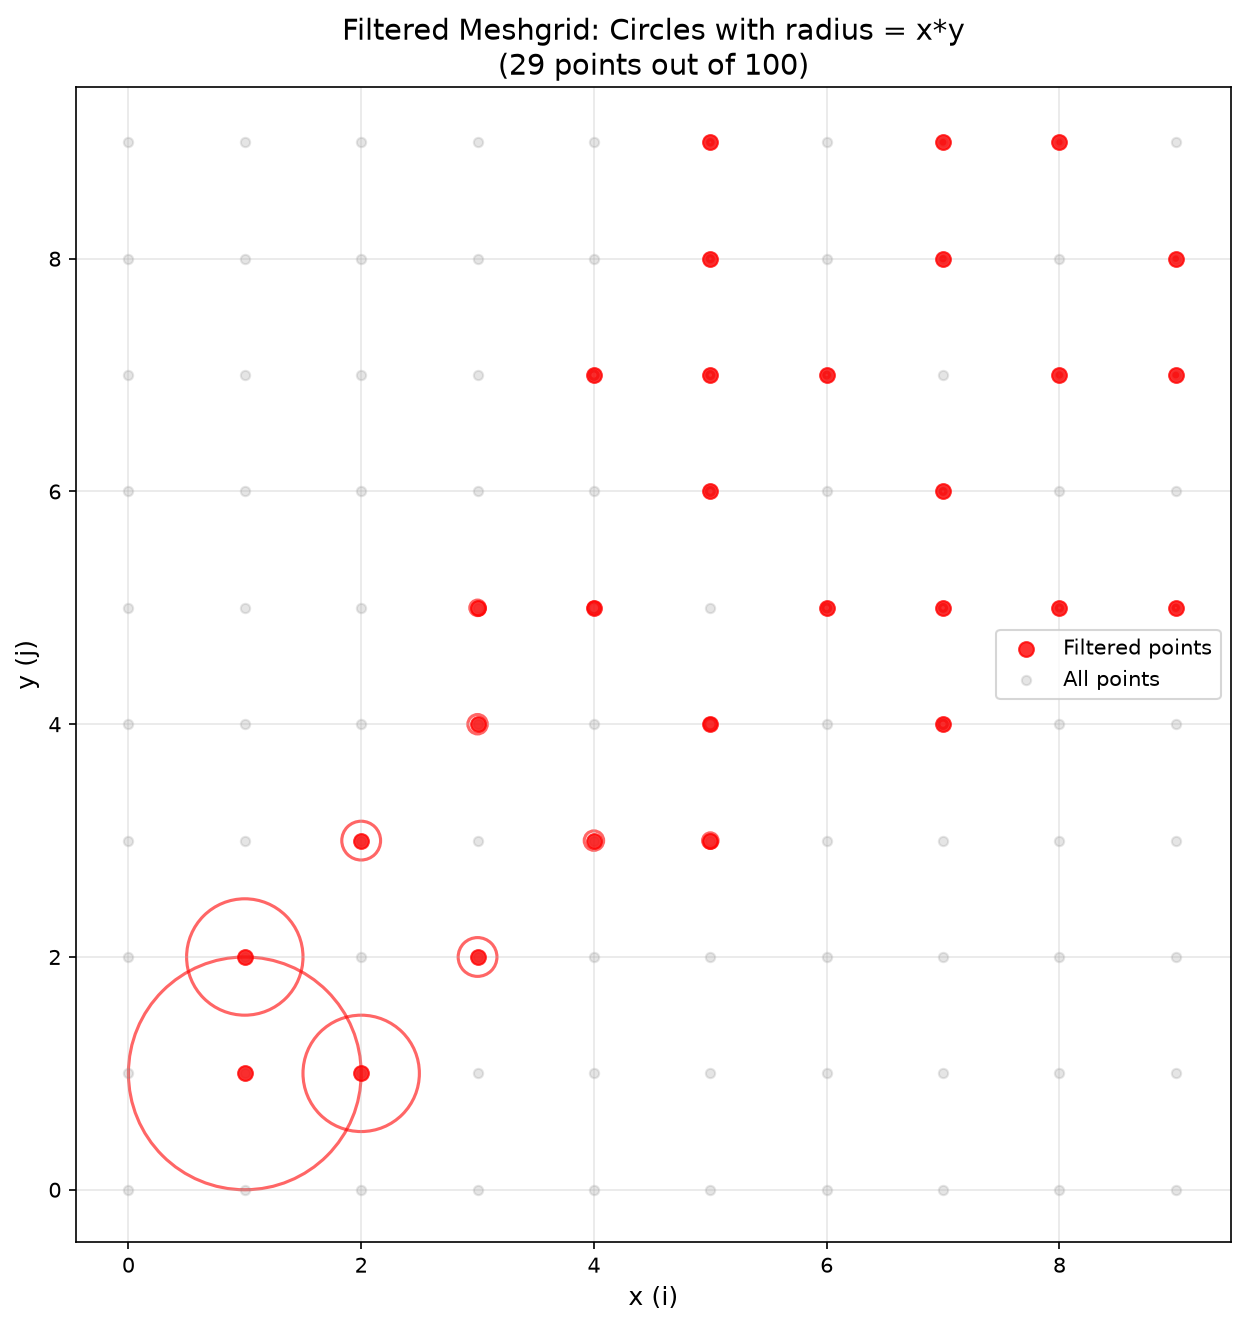
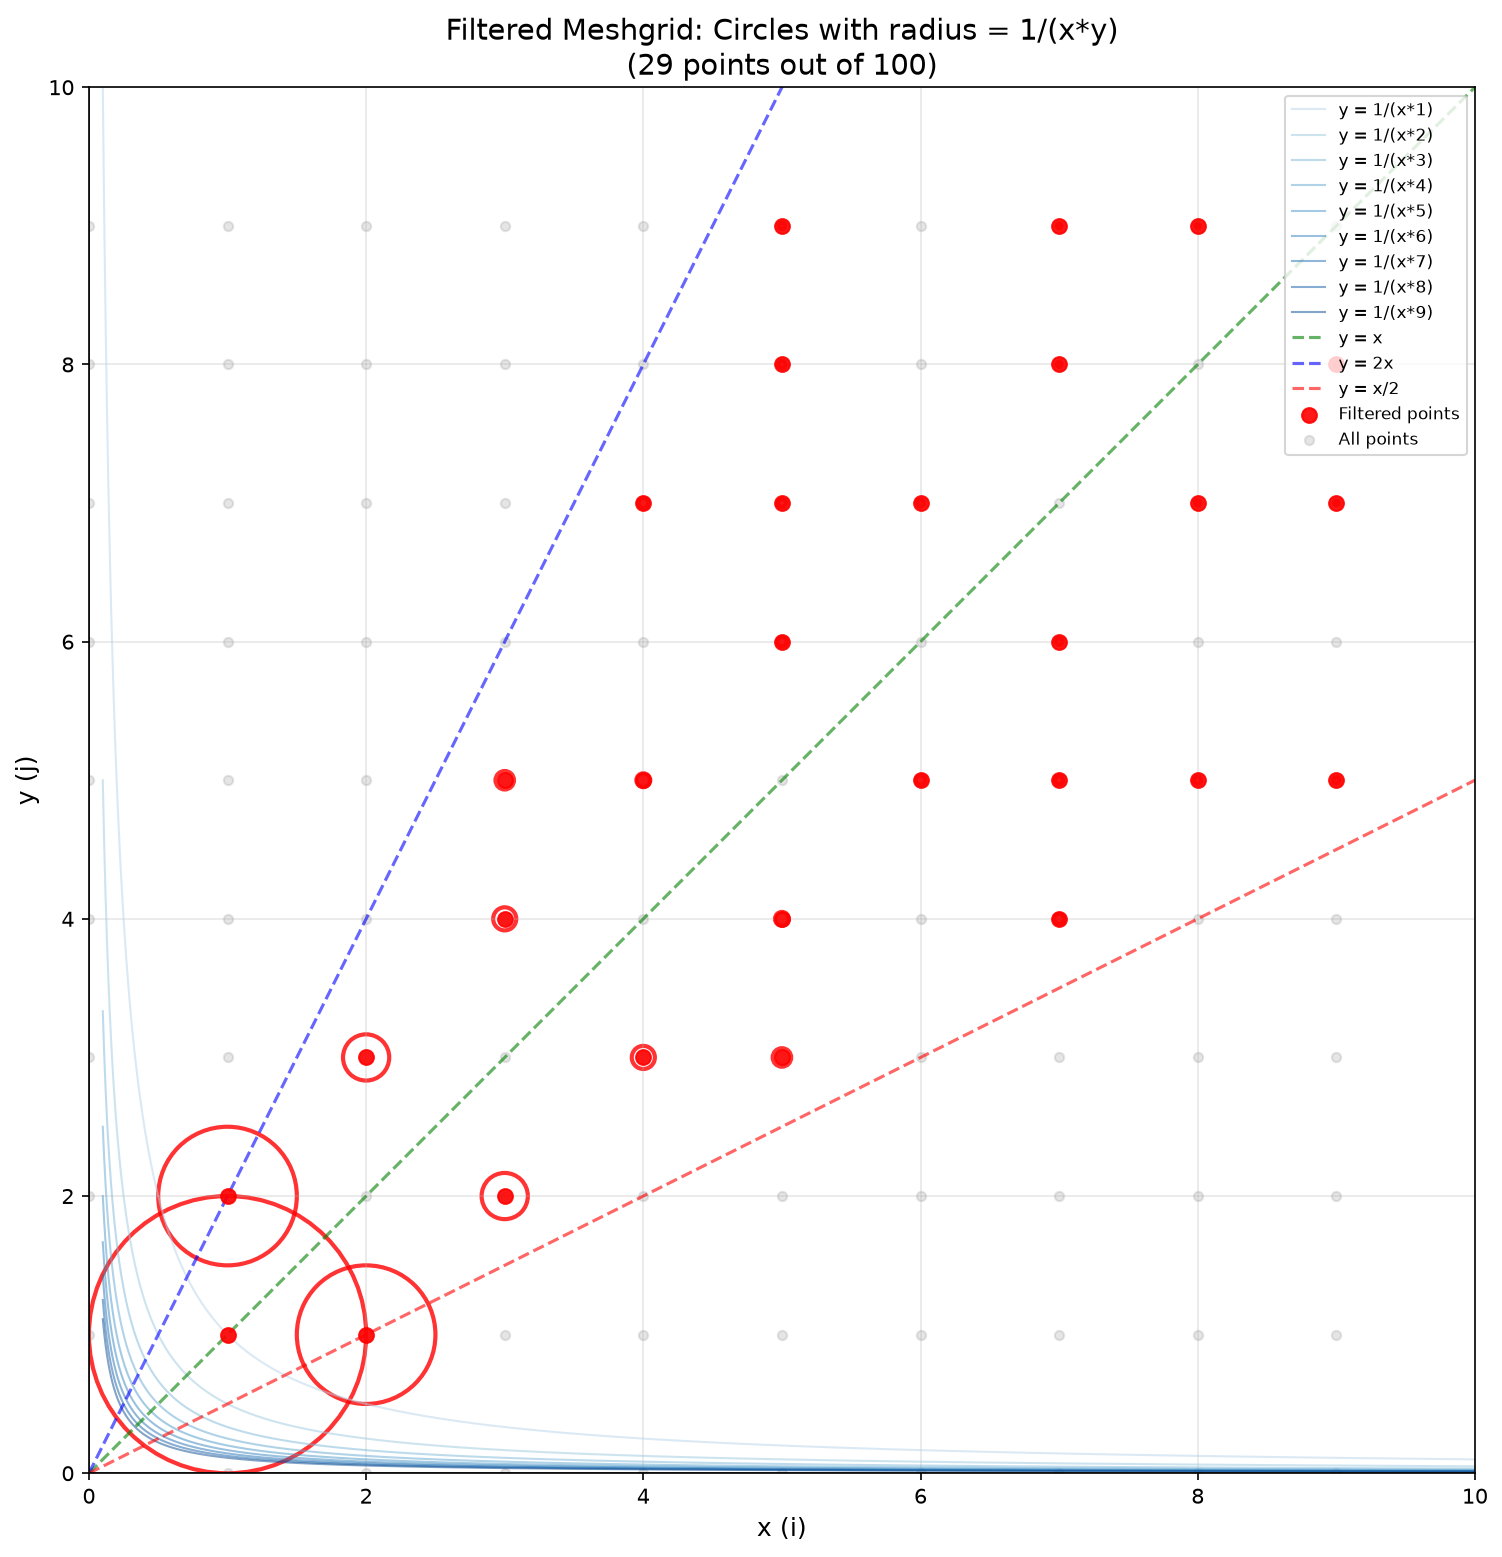
Remove meshgrid files and enhance filtered plot with curves and reference lines

diff --git a/tmo/meshgrid_filtered.py b/tmo/meshgrid_filtered.py
@@ -37,25 +37,46 @@ for i in range(N):
         filtered_x.append(x_val)
         filtered_y.append(y_val)
 
-# Plot circles at filtered points with radius = x*y
-fig, ax = plt.subplots(figsize=(10, 10))
+# Create plot
+fig, ax = plt.subplots(figsize=(12, 12))
+
+# Add curves y = 1/(x*k) for k in range(1, 10)
+x_range = np.linspace(0.1, 10, 1000)
+colors_curves = plt.cm.Blues(np.linspace(0.3, 0.9, 9))
+for k in range(1, 10):
+    y_curve = 1 / (x_range * k)
+    ax.plot(x_range, y_curve, color=colors_curves[k-1], alpha=0.5, linewidth=1, label=f'y = 1/(x*{k})')
+
+# Add axis lines (x=0 and y=0)
+ax.axhline(y=0, color='black', linewidth=0.8, alpha=0.7)
+ax.axvline(x=0, color='black', linewidth=0.8, alpha=0.7)
+
+# Add reference lines
+x_line = np.linspace(0, 10, 100)
+ax.plot(x_line, x_line, 'g--', linewidth=1.5, alpha=0.6, label='y = x')
+ax.plot(x_line, 2*x_line, 'b--', linewidth=1.5, alpha=0.6, label='y = 2x')
+ax.plot(x_line, x_line/2, 'r--', linewidth=1.5, alpha=0.6, label='y = x/2')
 
 # Draw circles for filtered points
 for x_val, y_val in zip(filtered_x, filtered_y):
     radius = 1 / (x_val * y_val)
-    circle = plt.Circle((x_val, y_val), radius, fill=False, edgecolor='red', alpha=0.6, linewidth=1.5)
+    circle = plt.Circle((x_val, y_val), radius, fill=False, edgecolor='red', alpha=0.8, linewidth=2)
     ax.add_patch(circle)
 
 # Plot the points themselves
-ax.scatter(filtered_x, filtered_y, s=50, color='red', alpha=0.8, zorder=5, label='Filtered points')
+ax.scatter(filtered_x, filtered_y, s=50, color='red', alpha=0.9, zorder=5, label='Filtered points')
 ax.scatter(X, Y, s=20, alpha=0.2, color='gray', label='All points')
+
+# Set viewport cropped around points
+ax.set_xlim(0, 10)
+ax.set_ylim(0, 10)
 
 ax.set_xlabel("x (i)", fontsize=12)
 ax.set_ylabel("y (j)", fontsize=12)
-ax.set_title(f"Filtered Meshgrid: Circles with radius = x*y\n({len(filtered_x)} points out of {N*N})", fontsize=14)
+ax.set_title(f"Filtered Meshgrid: Circles with radius = 1/(x*y)\n({len(filtered_x)} points out of {N*N})", fontsize=14)
 ax.set_aspect('equal')
 ax.grid(True, alpha=0.3)
-ax.legend()
+ax.legend(loc='upper right', fontsize=8)
 
 # Save to file
 output_path = 'meshgrid_filtered.png'
